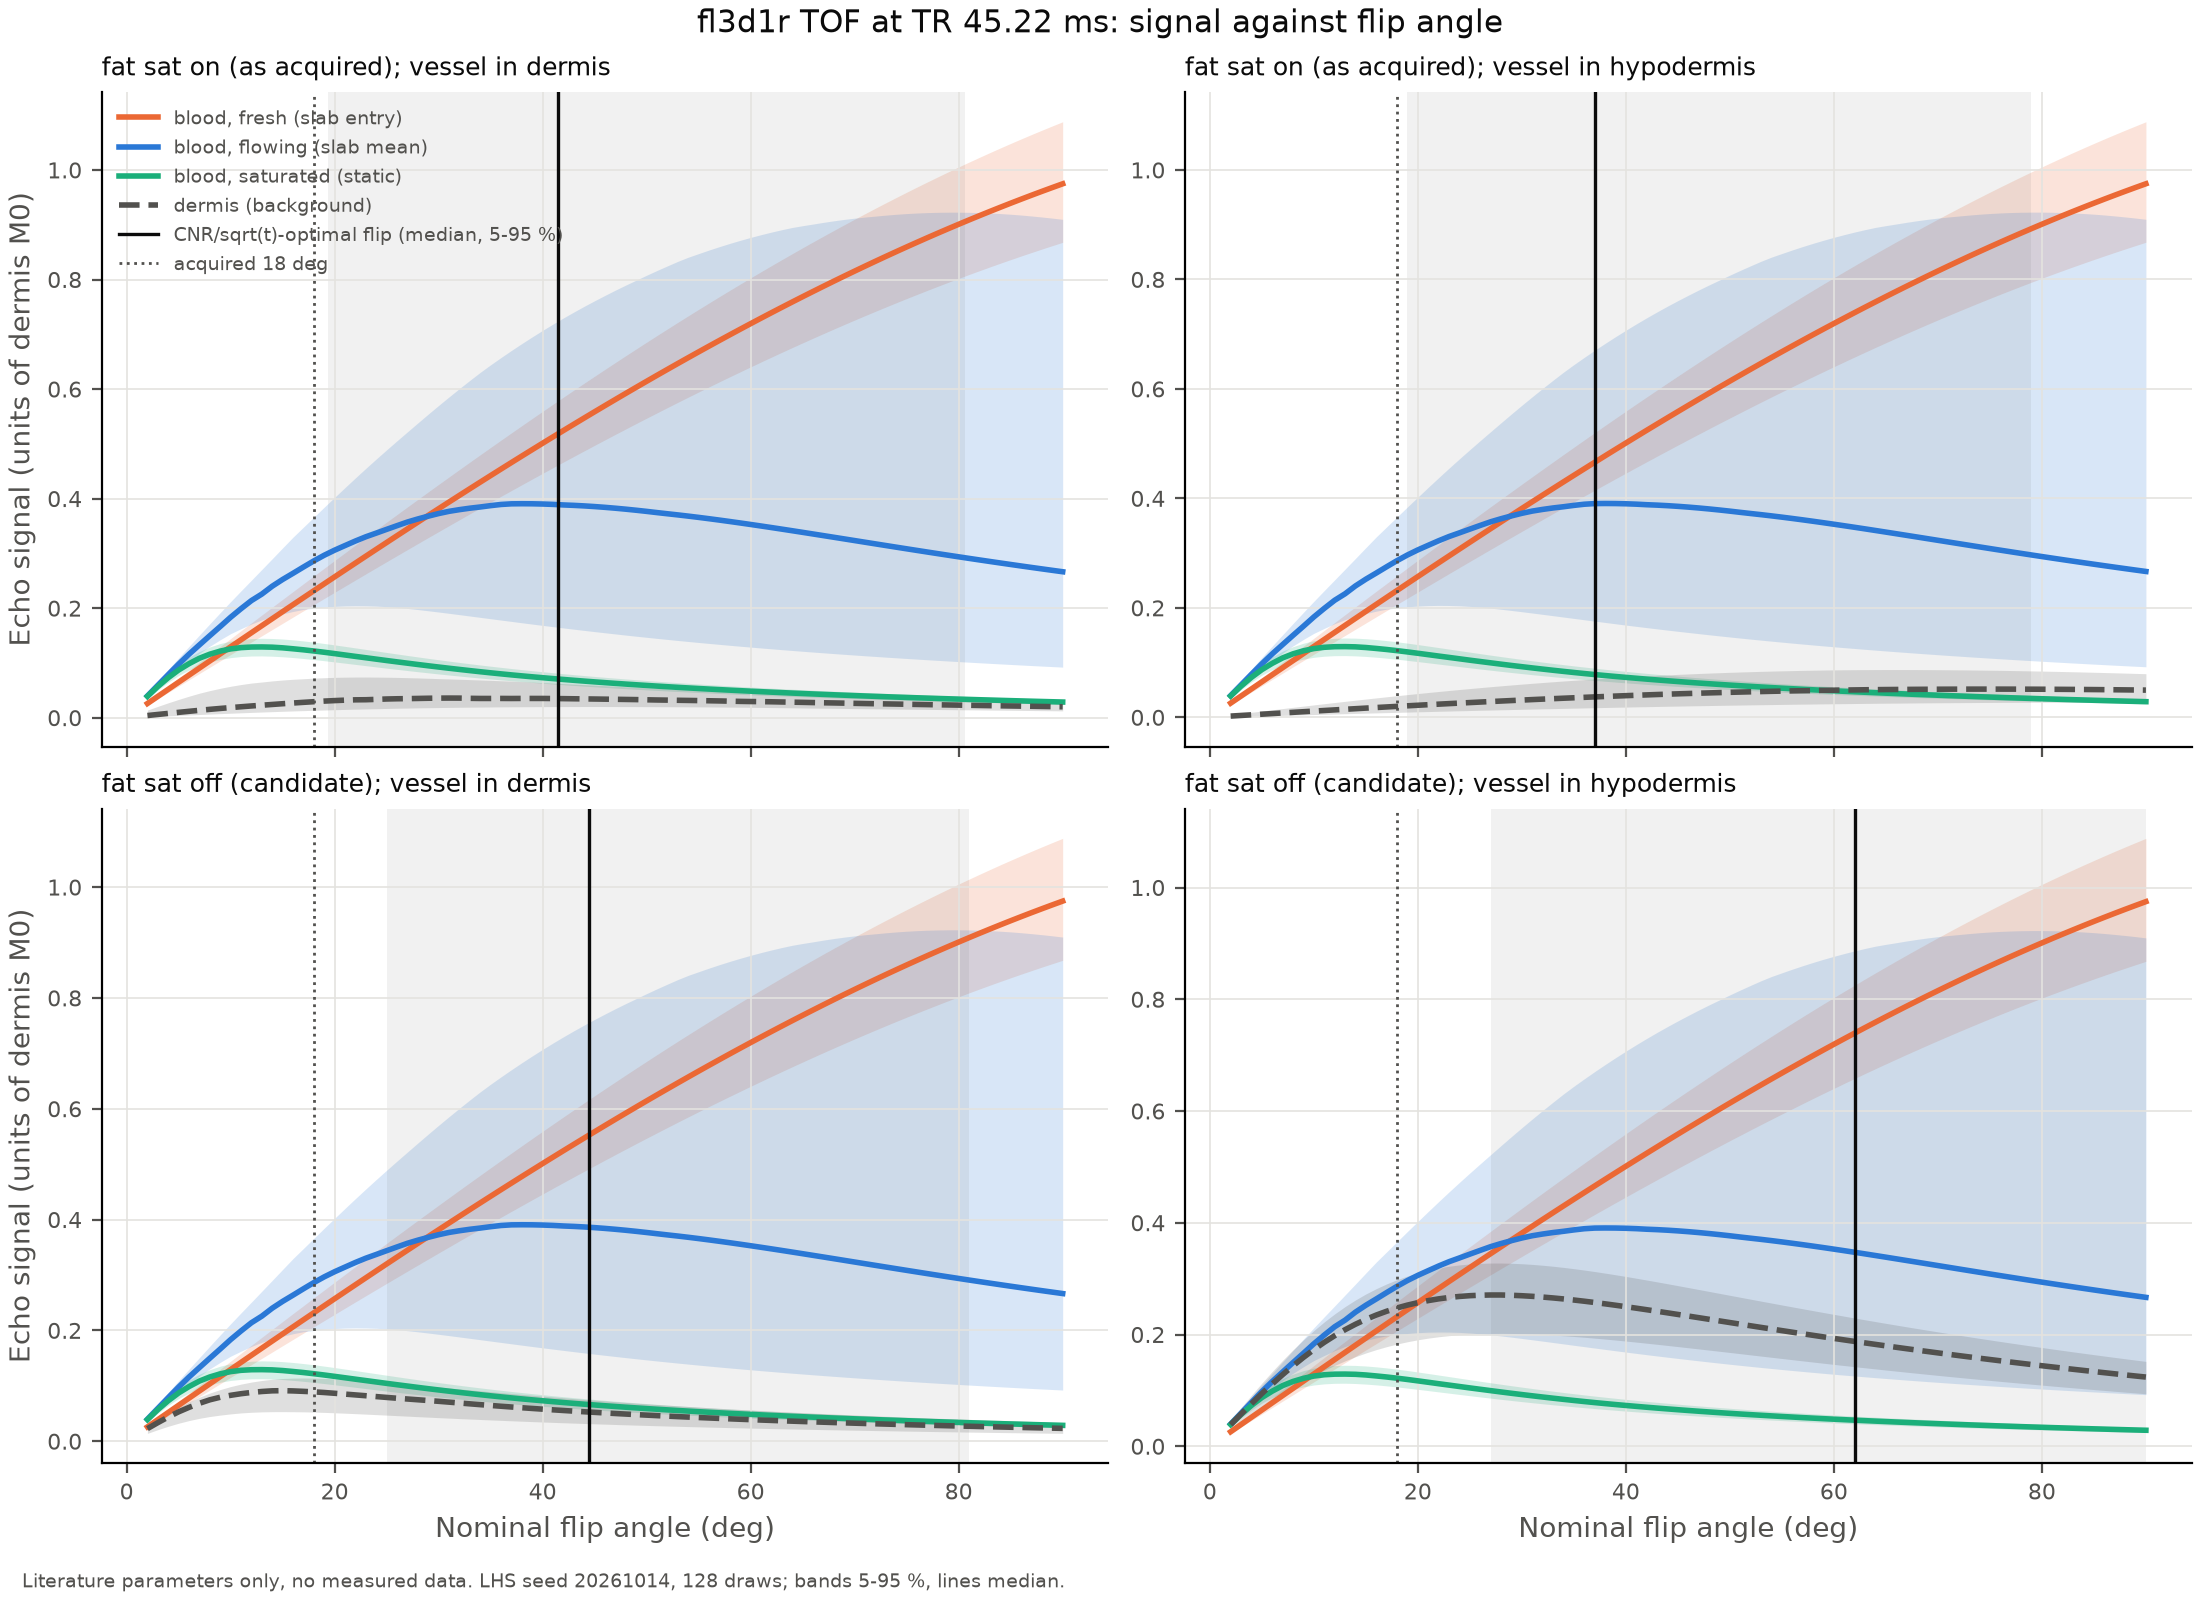
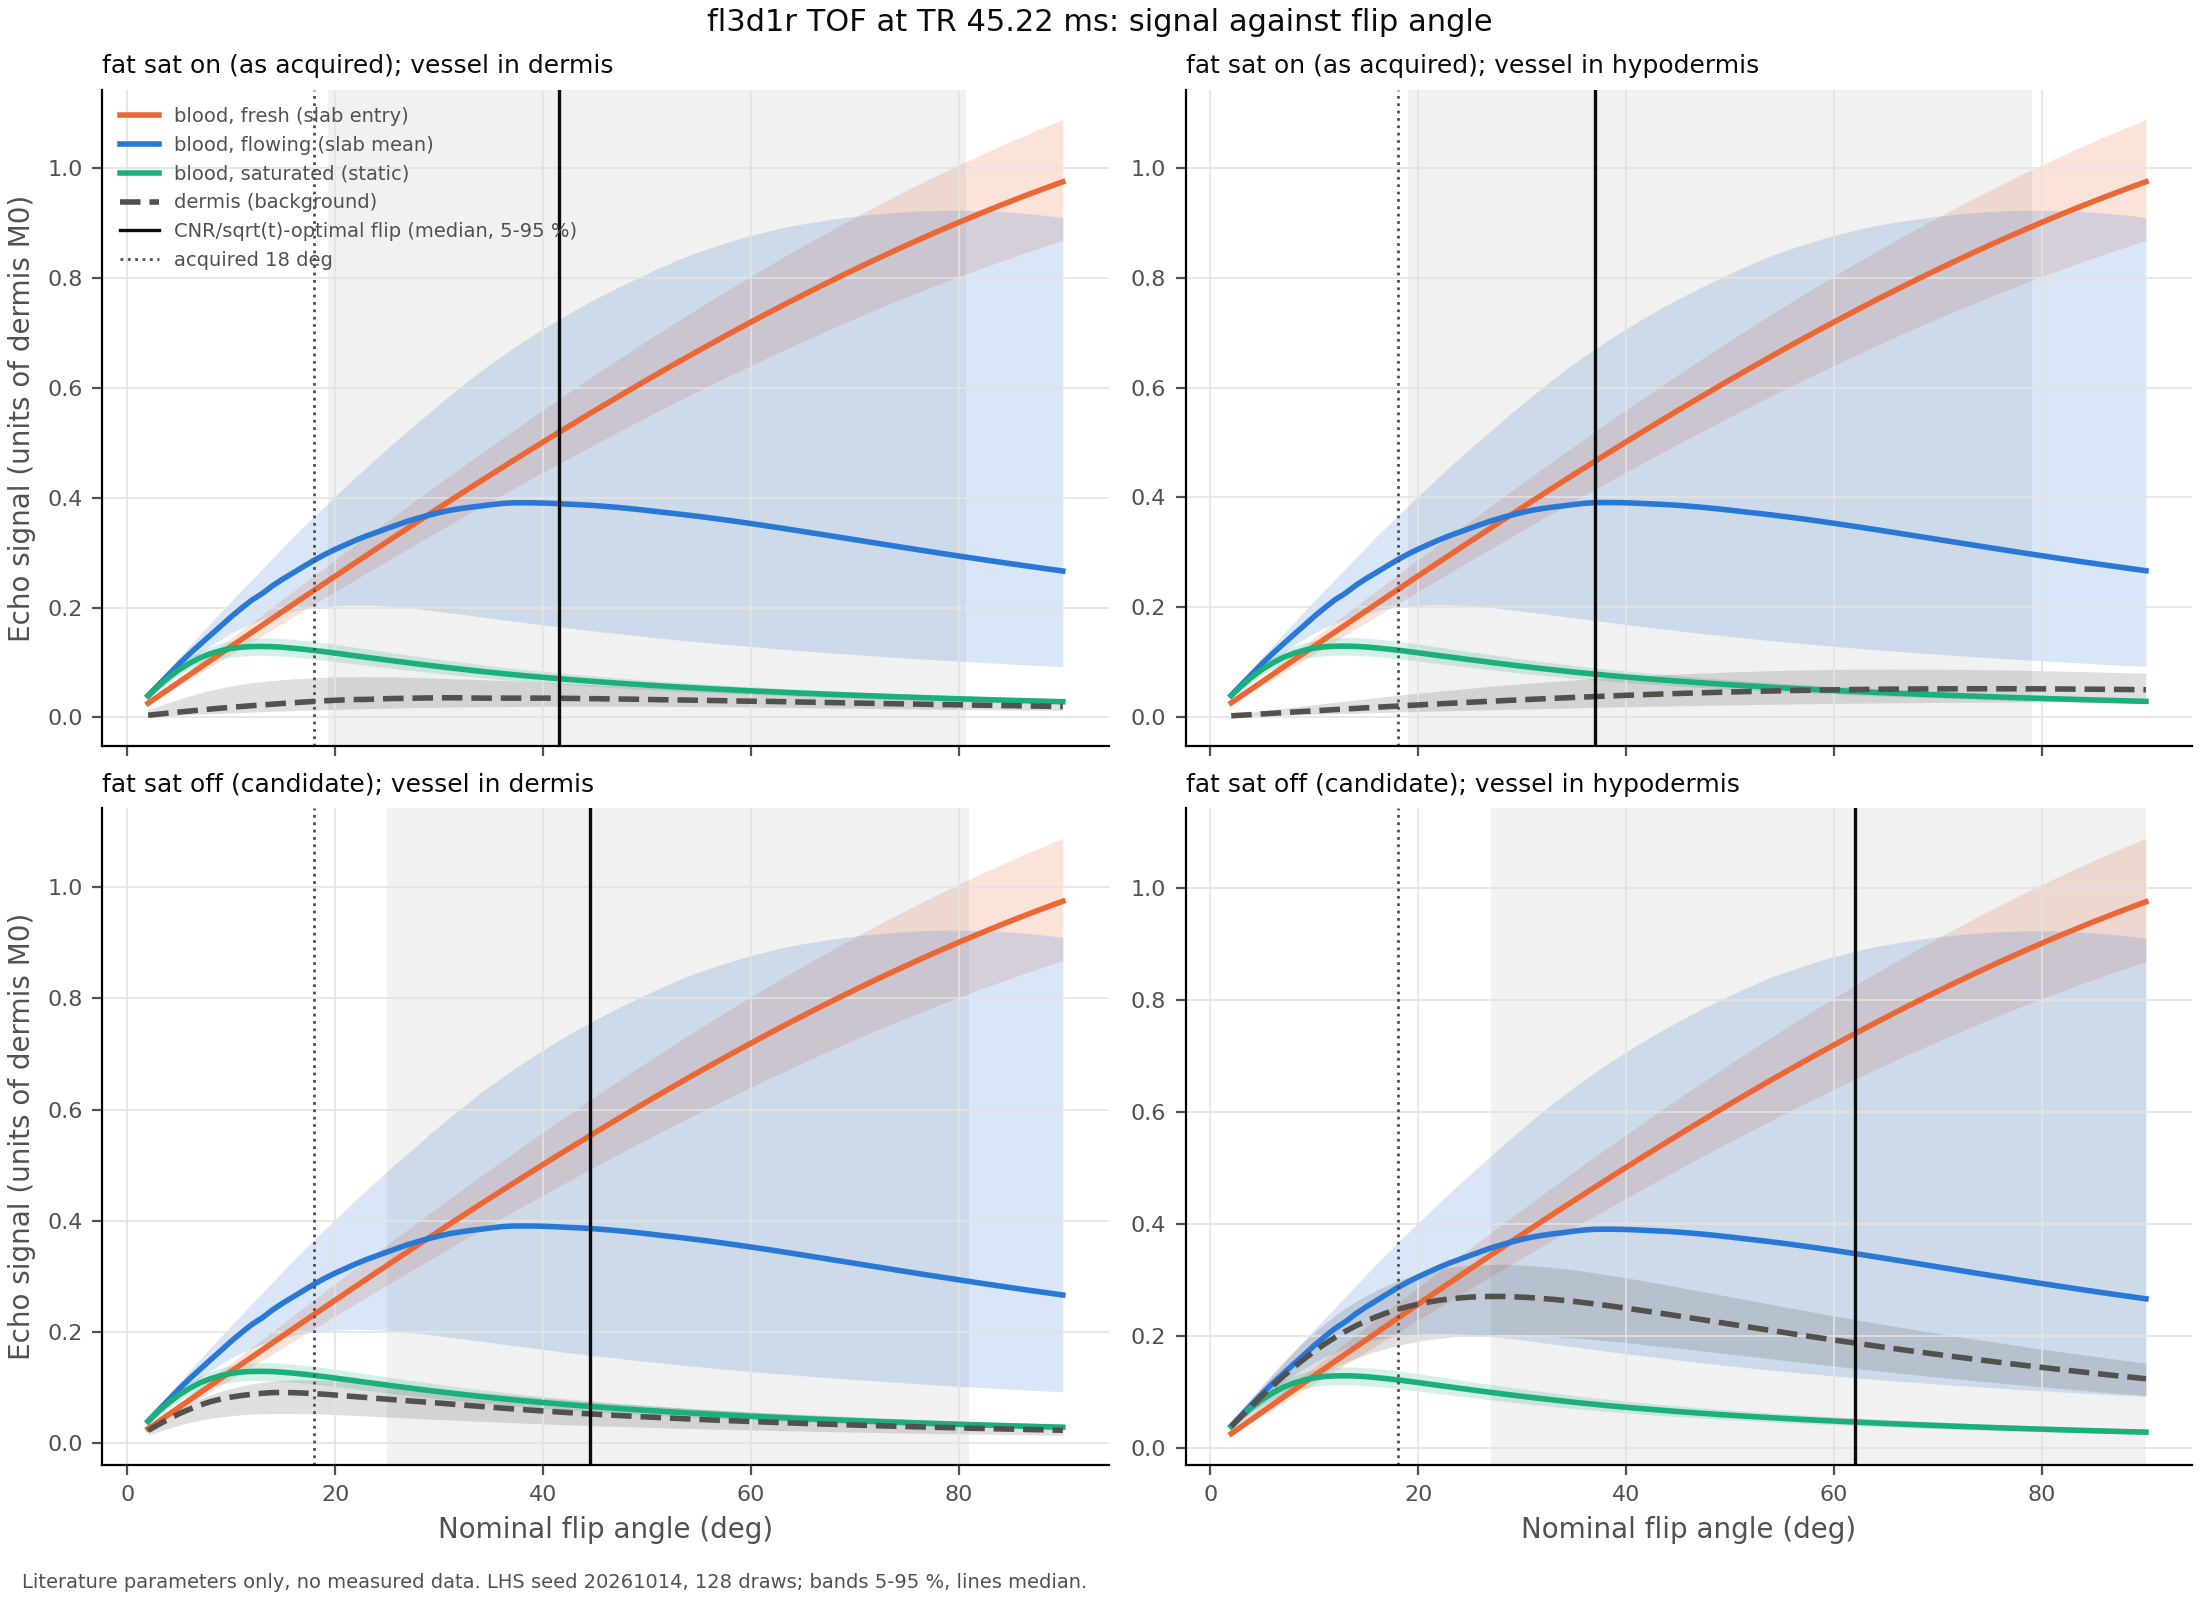
Let save() take a provenance note for non-sampled figures
Figures built on nominal parameters rather than a Latin-hypercube draw
were carrying the default "LHS seed ..., 128 draws; bands 5-95 %" line,
which is false for them. save() now takes an optional note that replaces
it, so each figure states how it was actually computed.

Regenerates the three existing figures, whose footer text changes only.

diff --git a/figures/common.py b/figures/common.py
@@ -110,9 +110,14 @@ def label_grid(axes: np.ndarray, xlabel: str, ylabel: str) -> None:
         ax.set_ylabel(ylabel, color=INK_2)
 
 
-def save(fig: plt.Figure, name: str, n: int = N_DRAWS, seed: int = SEED) -> Path:
-    """Save the figure reproducibly with the draw recorded on it and in its metadata."""
-    note = f"Literature parameters only, no measured data. LHS seed {seed}, {n} draws; bands 5-95 %, lines median."
+def save(fig: plt.Figure, name: str, n: int = N_DRAWS, seed: int = SEED, note: str | None = None) -> Path:
+    """Save the figure reproducibly with the draw recorded on it and in its metadata.
+
+    ``note`` overrides the default provenance line, for figures built on nominal
+    parameters rather than a Latin-hypercube draw.
+    """
+    if note is None:
+        note = f"Literature parameters only, no measured data. LHS seed {seed}, {n} draws; bands 5-95 %, lines median."
     fig.get_layout_engine().set(rect=(0, 0.03, 1, 0.97))
     fig.text(0.01, 0.005, note, fontsize=7, color=INK_2, ha="left", va="bottom")
     out = ROOT / "figures" / f"{name}.png"
